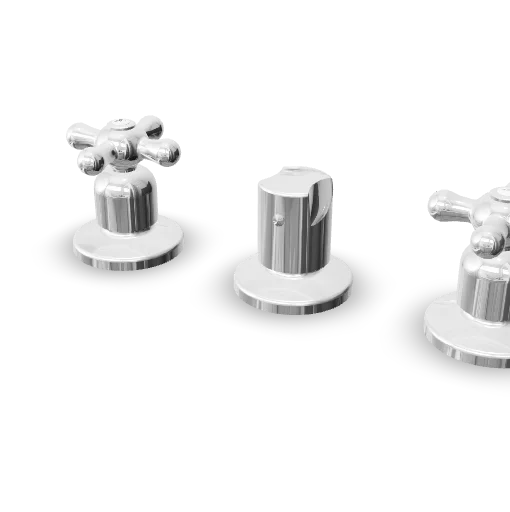
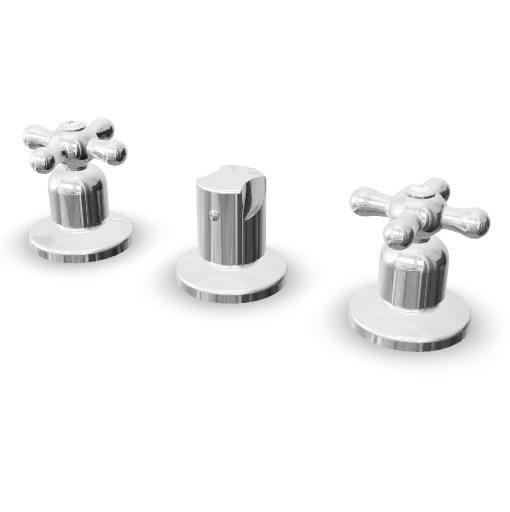
31GBT110C

Changed region(s): [[0.0294, 0.2188, 1.0, 0.75]]

diff --git a/31GBT110C Edit/Cod-31GBT110C.html b/31GBT110C Edit/Cod-31GBT110C.html
@@ -1,0 +1,34 @@
+<!doctype html>
+<html lang="en">
+  <head>
+    <title>31GBT110C GRUPO BIDET MANILLA CROSS</title>
+    <link rel="icon" href="https://raw.githubusercontent.com/GrupoPacificoGP/RA/main/Logo%20FP.png" type="image/icon type">
+    <meta charset="utf-8">
+    <meta name="description" content="CUELLO DE CISNE LARGO BOL.">
+    <meta name="viewport" content="width=device-width, initial-scale=1">
+    <link type="text/css" href="https://raw.githack.com/GrupoPacificoGP/RA/main/31GBT110C%20Edit/styles.css" rel="stylesheet"/>
+  </head>
+  <body>
+    <!-- <model-viewer> HTML element -->
+    <model-viewer src="https://raw.githubusercontent.com/GrupoPacificoGP/RA/main/31GBT110C%20Edit/31GBT110C-.glb" 
+    ar ar-modes="webxr scene-viewer quick-look" 
+    camera-controls touch-action="pan-y"
+    camera-controls poster="https://raw.githubusercontent.com/GrupoPacificoGP/RA/main/31GBT110C%20Edit/Poster-31GBT110C.webp" shadow-intensity="0" 
+    environment-image="https://raw.githubusercontent.com/GrupoPacificoGP/RA/main/bathroom_4k_v3.png" shadow-softness="0.74"  
+    camera-orbit="2007deg 62.89deg 0.9508m" 
+    field-of-view="27.61deg">
+      <div class="progress-bar hide" slot="progress-bar">
+          <div class="update-bar"></div>
+      </div>
+      <button slot="ar-button" id="ar-button">
+        Ver en tu espacio
+      </button>
+      <div id="ar-prompt">
+          <img src="https://modelviewer.dev/shared-assets/icons/hand.png">
+      </div>
+    </model-viewer>  
+    <script src="https://github.com/GrupoPacificoGP/RA/blob/main/31GBT110C%20Edit/Script-31GBT110C.js"></script>
+    <!-- Loads <model-viewer> for browsers: -->
+    <script type="module" src="https://ajax.googleapis.com/ajax/libs/model-viewer/3.0.1/model-viewer.min.js"></script>
+  </body>
+</html> 
